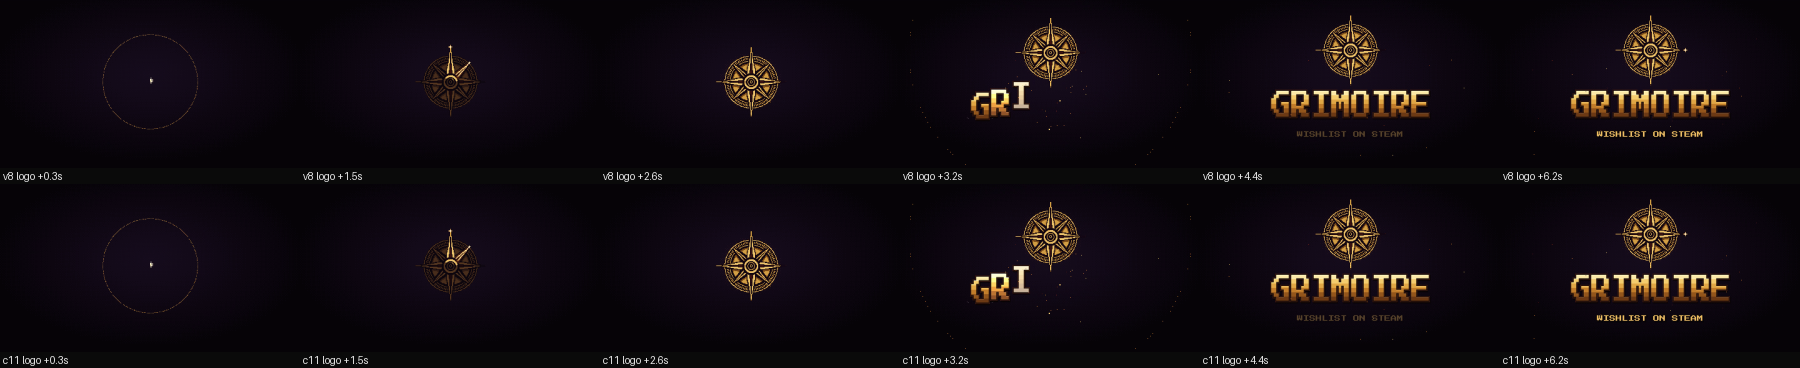
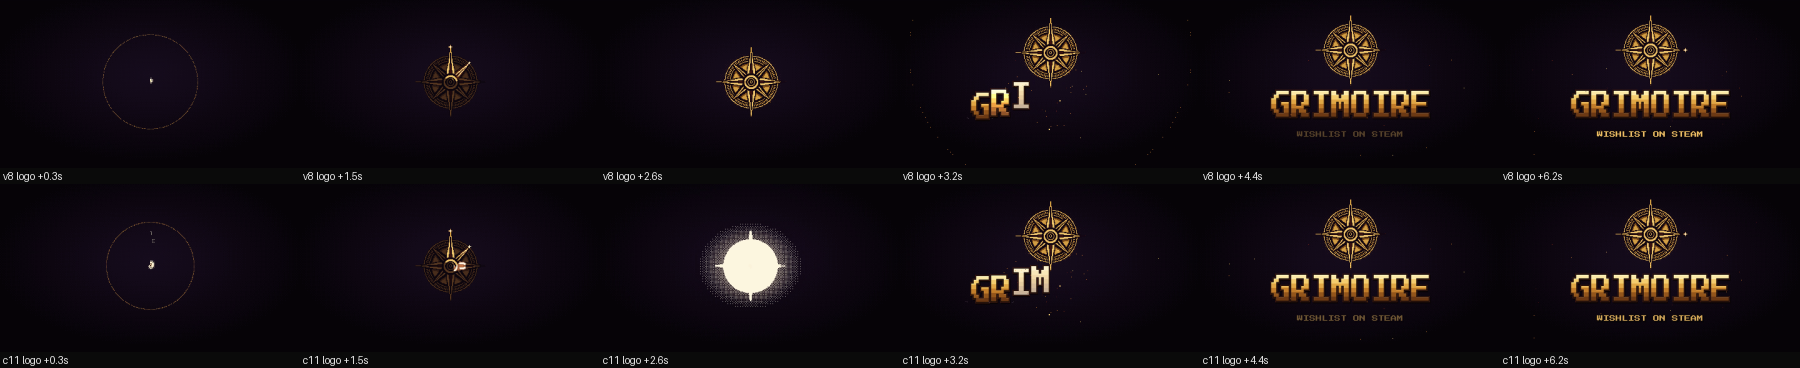
trailer-do-zero: corte 11 revisao 2 (registro e provas)

diff --git a/docs/handoff/trailer-do-zero/corte/provas11.py b/docs/handoff/trailer-do-zero/corte/provas11.py
@@ -20,26 +20,35 @@ def tail_frames(p, secs):
     return [f for _, f in frames(p, d - secs, d)]
 
 
+LOGO_T0 = {'t': float(os.environ.get('C11_LOGO_T', '0')), 'r': float(os.environ.get('C11_LOGO_R', '0'))}
+
+
+def logo_frames(k):
+    if k == 'v8':
+        return tail_frames(V[k], 6.5)
+    return [f for _, f in frames(V[k], LOGO_T0[k], LOGO_T0[k] + 6.5)]
+
+
 def logo_cmp():
     src = [f for _, f in frames(LOGO, 0, 6.5)]
     out = {}
     for k in ('t', 'r', 'v8'):
-        fr = tail_frames(V[k], 6.5)
+        fr = logo_frames(k)
         n = min(len(src), len(fr))
         d = []
         for i in range(n):
             a = src[i].astype(int); b = fr[i].astype(int)
             d.append(float(np.abs(a - b).mean()))
         out[k] = dict(quadros=n, dif_media=round(float(np.mean(d)), 2), dif_max=round(float(np.max(d)), 2))
-    v8 = tail_frames(V['v8'], 6.5); t = tail_frames(V['t'], 6.5)
+    v8 = logo_frames('v8'); t = logo_frames('t')
     n = min(len(v8), len(t))
     out['c11_x_v8'] = round(float(np.mean([np.abs(v8[i].astype(int) - t[i].astype(int)).mean() for i in range(n)])), 2)
     pick = [0.3, 1.5, 2.6, 3.2, 4.4, 6.2]
     it = []
     for lab, p in (('v8', V['v8']), ('c11', V['t'])):
-        d = dur(p)
+        t0 = dur(p) - 6.5 if lab == 'v8' else LOGO_T0['t']
         for s in pick:
-            for _, f in frames(p, d - 6.5 + s, d - 6.5 + s + 0.02):
+            for _, f in frames(p, t0 + s, t0 + s + 0.02):
                 it.append((s, f, f'{lab} logo +{s:.1f}s'))
                 break
     sheet(it, len(pick), os.path.join(P, 'p_fecho_v8_x_c11.png'), 300)

diff --git a/docs/handoff/trailer-do-zero/corte11.md b/docs/handoff/trailer-do-zero/corte11.md
@@ -67,3 +67,27 @@ How to rebuild: `TRAILER_SRC=%APPDATA%\LOVE\card-game-trailer-c11\trailer TRAILE
 - Gameplay is captured in-engine (recorder, 25/Oct build), with the HUD on in the card and fight shots. God mode and 5 mana were used for capture.
 - The halls are AI mood shots, used only for the boss montage with names.
 - The final boss (Eclipse Queen) is not shown.
+
+## Revision 2 (after `revisao-corte11.md`, b1ed4360, FAIL 8/8)
+
+This section replaces the times and numbers above where they differ.
+
+| reviewer's fix | what was done |
+|---|---|
+| 1. climax ends with the King's death | The whole boss sequence now comes from one take, `boss_carrion4` (v6 recording, in-engine CRT): gate, eyes, swoop, "CARRION KING", turn 1 with combo and hits, then the last turn: Fireball, the killing blow, the death in slow motion and desaturated. "ONE HAND CAN BREAK A KING." sits over the last turn. Then black, then the logo. Tirano 44,1 to 61,1 s; Rei 45,7 to 62,5 s. |
+| 2. dynamics | The engine's dynamic loudnorm is off for this cut (`TRAILER_NO_LOUDNORM=1`, new switch; the default is unchanged). Two-pass linear loudnorm instead. The opening ambient is ~15 dB under the climax, and the music goes −9 under the acts, −6 under the cards, −4 under the entrances, +2 from the halls on. RMS per 3 s (Tirano): acts −33 to −20, cards −19 to −11, halls/climax −9 to −12. **LRA 10,4 (Tirano) / 9,2 (Rei)**, was 3,9 / 3,4. |
+| 3. boss cuts on the strong accent | The hall and climax cuts pick the strongest onset within ±0,45 s (strength × bass rise). Rei halls: 39,108 / 40,664 / 41,604 / 43,160 / 44,414 s, onsets of 9× to 31× with bass +30 dB. Tirano: 38,713 / 39,851 / 40,989 / 41,848 / 42,997 s. Tables: `cortes_x_onsets_*.txt`. |
+| 4. bigger text | Scale 7 to 9 by length (was 5), always inside the frame. |
+| 5. collection | After the grid scroll, two cards open big (Blood Sword, Helm of Valor), each on a beat. |
+| 6. longer acts | 2,0 s each (was 1,6). |
+
+Numbers now:
+- **Duration:** 67,6 s (Tirano) and 69,0 s (Rei).
+- **Bitrate:**
+  - 720p: 13,4 Mb/s
+  - 1080p: 32,8 / 32,5 Mb/s
+- **Loudness:**
+  - Tirano: −13,6 LUFS, −1,1 dBTP
+  - Rei: −14,1 LUFS, −1,3 dBTP
+- **Ending:** frame-exact against `logo_sting.mp4` and v8, 1,56/255 in all three (`p_fecho_quadro_a_quadro.json`). The Tirano file loses the last 3 of 390 logo frames at the mux.
+- **Dark frames:** only the TV turning on (0 to 1,1 s) and the logo background.
